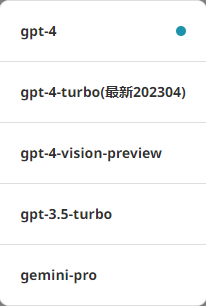
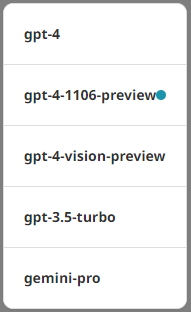
v1.6 langchain-next

diff --git a/docs/productivity/next.md b/docs/productivity/next.md
@@ -1,15 +1,19 @@
 # 尊享 ChatGPT 介绍
 
 ::: tip 写在开始之前
-您可以先查阅 [简洁 ChatGPT 介绍](/free/simple.md)，尊享版的界面与简洁版基本一致，如果您只需用到gpt-3.5-turbo(OpenAI) 或者 gemini-pro(Google),那可以直接用[简洁ChatGPT](https://simple.hugai.top)，而且是**免费**的，无需使用尊享版。
+您可以先查阅 [简洁 ChatGPT 介绍](/free/simple.md)，尊享版的界面与简洁版基本一致，如果您只是想体验gpt-3.5-turbo(OpenAI) 或者 gemini-pro(Google), 那可以直接用[简洁ChatGPT](https://simple.hugai.top)，而且是**免费**的，无需使用尊享版。
 :::
 
-🎉欢迎使用 Ai自强少年 提供的生产力 ChatGPT网页服务：尊享 ChatGPT, 本文仅介绍与[简洁 ChatGPT 介绍](/free/simple.md)有差异的部分。
+🎉欢迎使用 Ai自强少年 提供的生产力 ChatGPT网页服务：尊享 ChatGPT, 本文仅介绍与[简洁 ChatGPT](/free/simple.md)有差异的部分。
 
-::: tip 最新动态 2023-11-08
-已支持 gpt-4-1106-preview，gpt-3.5-turbo-1106 。
-
-gpt-4-vision-preview 仍在开发中，敬请期待。
+::: tip 最新动态 2024-01-05
+支持一批三方插件，目前直接可用的包括：
+- 搜索引擎：支持联网搜索
+- 计算器：用于计算数学表达式
+- 网页浏览器：从网页中提取信息或总结其内容
+- 维基百科：从维基百科获取数据
+- PDF浏览器：从pdf文件的url中提取文档信息或总结内容
+- WolframAlpha：回答有关数学，科学，技术，文化，社会的问题
 :::
 
 👉访问地址：[尊享ChatGPT](https://next.hugai.top) ([备用链接](https://nb.hugai.top)), 需要搭配Key使用。
@@ -20,23 +24,33 @@ gpt-4-vision-preview 仍在开发中，敬请期待。
 
 ## 与简洁版相比强在哪？
 
-1. 尊享版支持gpt4，目前已支持 gpt-4-1106-preview，知识库更新到2023年4月；而gpt-3.5-turbo 知识库截止2021年9月。
+### 1. 支持gpt4
+目前已支持 gpt-4-1106-preview，知识库更新到2023年4月；而gpt-3.5-turbo 知识库截止2021年9月。
 
-    ![models.png](next/models.png)
+![models.png](next/models.png)
 
-2. 后续会继续支持多模态输入输出模型：
+### 2. 支持插件功能
+目前直接可用的包括：
+- 搜索引擎：支持联网搜索
+- 计算器：用于计算数学表达式
+- 网页浏览器：从网页中提取信息或总结其内容
+- 维基百科：从维基百科获取数据
+- PDF浏览器：从pdf文件的url中提取文档信息或总结内容
+- WolframAlpha：回答有关数学，科学，技术，文化，社会的问题
+
+  后续在中转服务也升级后，将支持的插件及模型：
     - 会读图的：gpt4-vision-preview
     - 文生图的：DALL.E3
-    - 文本转语音的：tts
-    - 语音转文字的：whisper
 
-3. 后续会继续支持插件功能；
+![插件列表.png](next/插件列表.png)
 
 ## 如何使用？
 
 尊享版通过调用[国内OpenAI API 中转服务](/productivity/HaiAPI.md)的接口使用ChatGPT，接口调用需要用到密钥，也就是Key。
 
-第一步：[您需要先购买Key](/productivity/HaiAPI.html#如何购买key); 买到的Key是以 **ak-开头的一长串英文**，区别于官方以sk-开头的Key;
+第一步：[您需要先购买Key](/productivity/HaiAPI.html#如何购买key); 
+
+买到的Key是以 **ak-开头的一长串英文**，区别于官方以sk-开头的Key;
 
 第二步：[将Key填入设置页面的**API KEY**](/productivity/HaiAPI.html#在-尊享chatgpt-中使用), 点击重新检查，就可以查询当前Key的使用情况。
 
@@ -44,11 +58,60 @@ gpt-4-vision-preview 仍在开发中，敬请期待。
 
 ![charge.png](next/charge.png)
 
+## 插件功能如何使用？
+
+::: tip 建议
+用插件的时候，模型选择最新的 gpt-4-1106-preview
+
+**是否调用插件以及什么时候调用插件是由 GPT 自己决定的**，插件返回结果后再由 GPT 合并上下文信息，回答用户的问题，同样的工具给更聪明的模型用可以带来更好的效果。
+
+而如果想触发一些插件可以在 prompt 中进行引导，比如：帮我在网上搜索xxx、使用wiki查找xxx、计算xxxxx等等，大家自行体验。
+:::
+
+### 1. 在插件列表页，将常用的勾选上
+
+![插件用法.png](next/插件用法.png)
+
+### 2. 在聊天窗口打开插件开关(默认是打开的)
+
+![如何使用.png](next/如何使用.png)
+
+### 3. 插件功能使用示例
+
+- 联网搜索，使用的搜索引擎是地表最强的那个：
+
+![联网搜索.png](next/联网搜索.png)
+
+- PDF浏览器, 目前仅支持从pdf文件的url中提取文档信息或总结内容，不能直接上传pdf。
+
+::: warning 提醒
+pdf文档通常很大，解析pdf的内容需要不少时间，所以使用这个插件响应会慢，需要耐心。
+:::
+
+![pdf-reader.png](next/pdf-reader.png)
+
+- 网页浏览器：从网页中提取信息或总结其内容
+
+![获取网站信息.png](next/获取网站信息.png)
+
+- 维基百科：有啥不懂的可以问问百科全书
+
+![维基百科.png](next/维基百科.png)
+
+- WolframAlpha：回答有关数学，科学，技术，文化，社会的问题，功能强大，对搞学术的朋友比较有用
+
+![函数绘图.png](next/函数绘图.png)
+
+- 在同一个聊天窗口，插件可以组合使用，GPT 真的聪明
+
+![插件组合使用.png](next/插件组合使用.png)
+
+
 ## 常见问题
 
-### 为什么 gpt-4-turbo 额度消耗这么快？
+### 为什么 gpt-4 额度消耗这么快？
 
-- gpt-4-turbo 的消耗速度是 gpt-3.5-turbo 的 10 到 20 倍。
+- gpt-4 模型的消耗速度是 gpt-3.5-turbo 的 10 到 20 倍。
     
     假设购买了 5w token(1块钱)，我们用 15 倍作为平均倍率，也就是 50000 / 15 = 3000 字左右，加上每次要附带上历史消息，能发的消息数将会进一步减半，在最极限的情况下，一篇长文章就能把 5w token 消耗完，所以请谨慎使用。
 
@@ -68,11 +131,19 @@ gpt-4-vision-preview 仍在开发中，敬请期待。
 
 ![image-8.png](next/image-8.png)
 
+### 为什么使用插件时返回结果不固定，偶尔甚至无响应？
+
+1. 是否调用插件，什么时候调用插件，传什么信息给插件都是由 GPT 自己决定的，插件返回结果之后也是GPT结合上下文再给回答的，因为GPT的回答本身就存在随机性，所以返回结果不固定。
+
+2. 为了保证插件的效果，最好使用gpt-4 或 gpt-4 turbo模型 ，如gpt-4-1106-preview，更聪明，也更精确，gpt-3.5-turbo存在杜撰的可能性。
+
+3. 不同的插件对应不同的三方服务接口，从插件调用到结果返回，服务器需要同时与插件接口和OpenAI交互，客观上就会慢，并且如果网络还出现波动，可能就会无响应了。
+
 ### 为什么吐字时快时慢，甚至偶尔无响应呢？
 
 这个服务的可用，同时满足我提供的客户端服务，国内的OpenAI API中转服务，官方的OpenAI API 服务 都正常才行。
 
-所以我贴心地在 [首页](https://home.hugai.top)导航栏 准备了一个[状态监控](https://status.hugai.top) 界面，如果出现持续性的网络波动，无响应，请先查看服务监控状态。
+所以我贴心地在 导航栏 准备了一个[状态监控](https://status.hugai.top) 界面，如果出现持续性的网络波动，无响应，请先查看服务监控状态（不含插件服务）。
 
 ![nav-bar.png](next/nav-bar.png)
 
